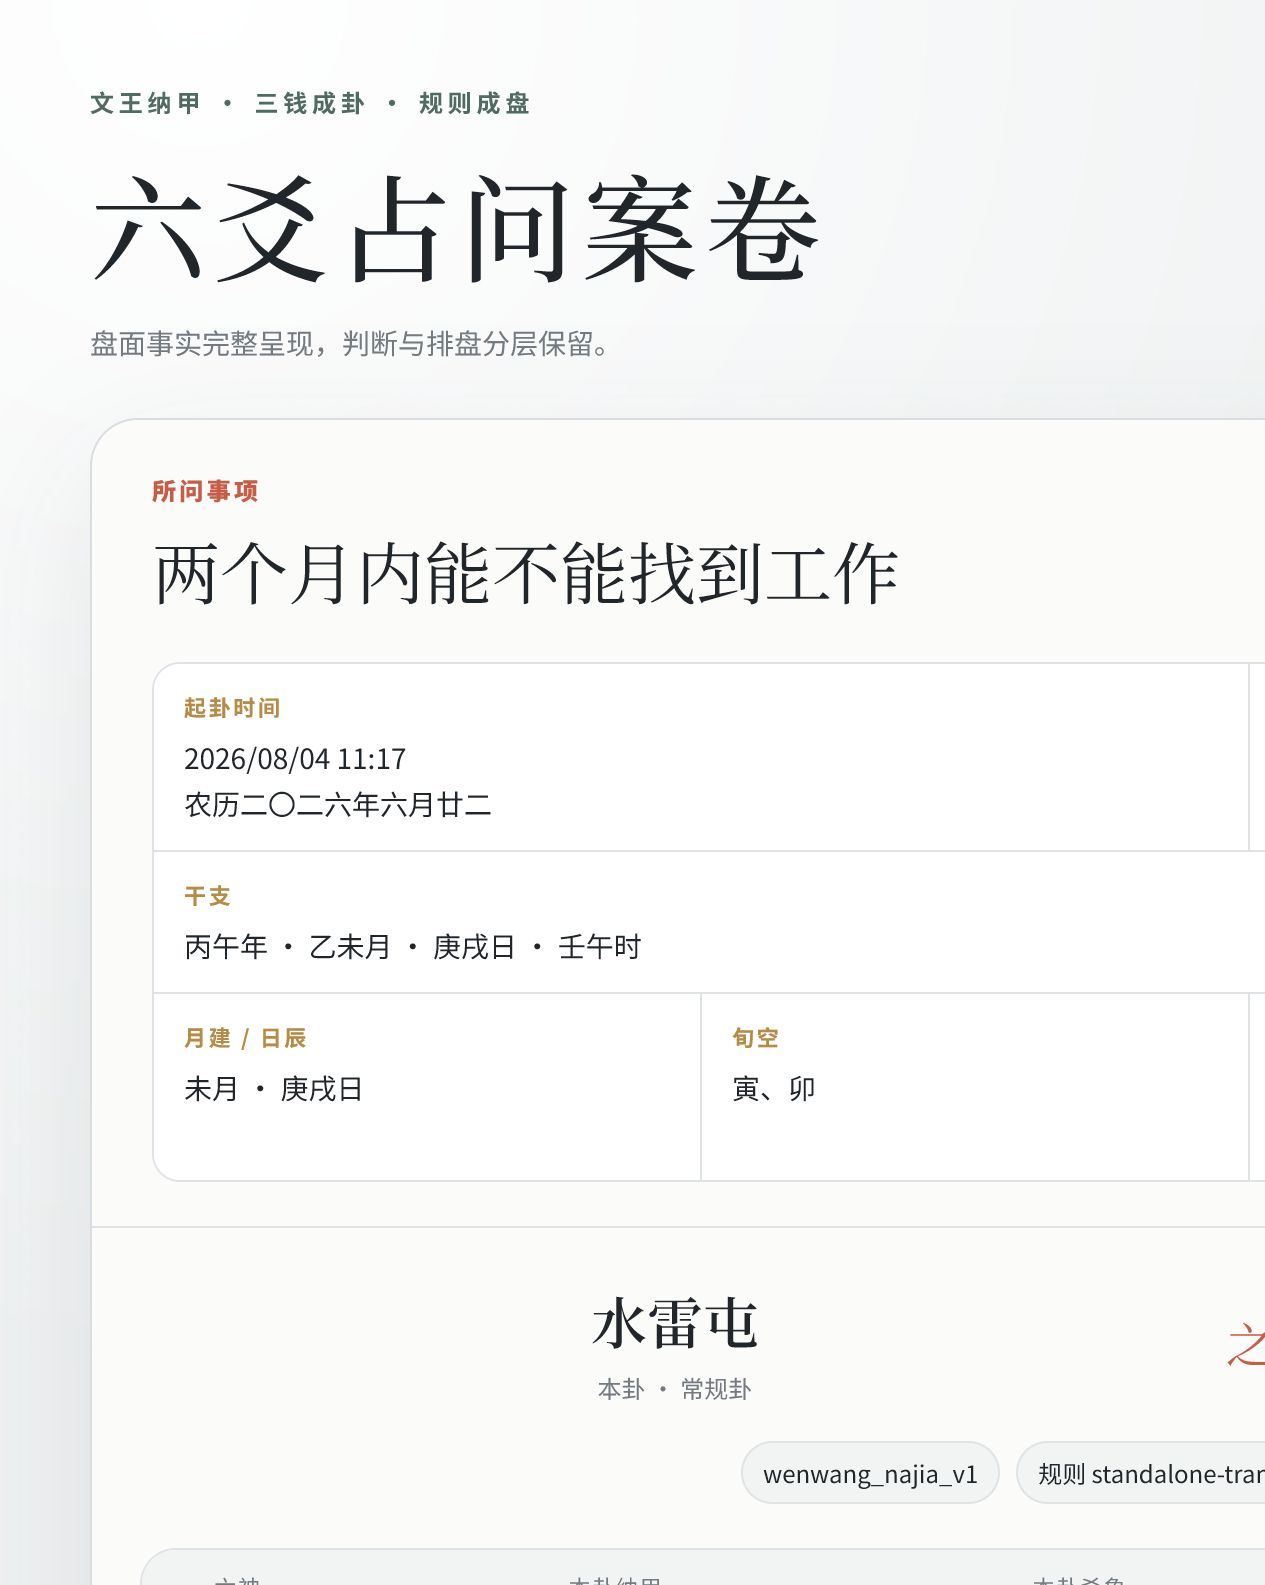
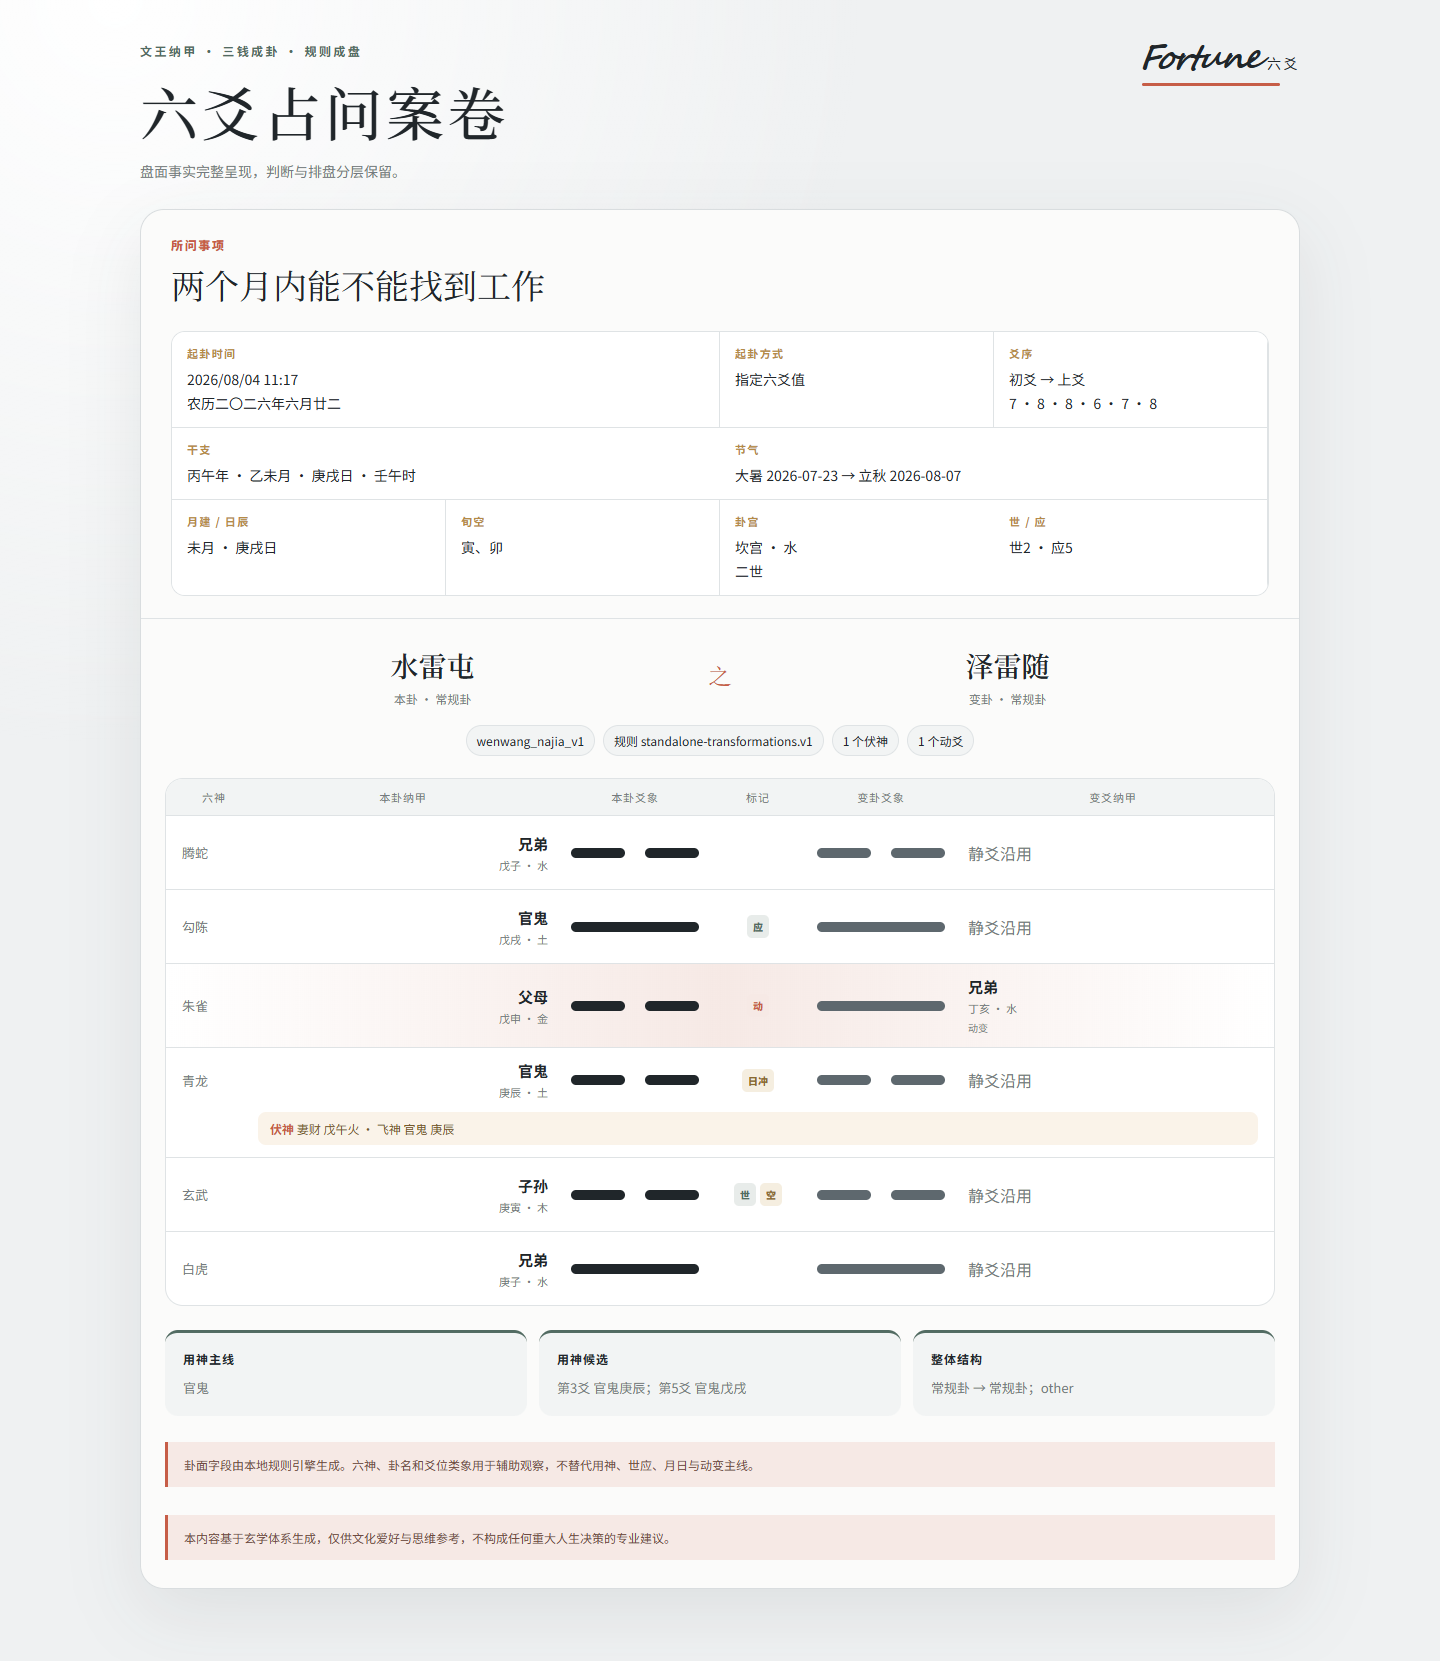
fix: publish complete chart preview and align format claims

diff --git a/assets/liuyao-viewer.html b/assets/liuyao-viewer.html
@@ -25,7 +25,7 @@
   <script>
     const EMBEDDED_JSON="__LIUYAO_DATA__";
     const esc=v=>String(v??"").replace(/[&<>"']/g,c=>({"&":"&amp;","<":"&lt;",">":"&gt;",'"':"&quot;","'":"&#39;"}[c]));
-    const relationName=v=>({same_element:"比和",generates_original:"回头生",controls_original:"回头克",other:"动变",advance:"化进",retreat:"化退",none:""}[v]||v||"");
+    const relationName=v=>{const names={same_element:"比和",generates_original:"回头生",controls_original:"回头克",other:"动变",advance:"化进",retreat:"化退",none:""};return Object.prototype.hasOwnProperty.call(names,v)?names[v]:(v||"")};
     const methodName=v=>({auto:"自动起卦",manual_coins:"三枚硬币手动起卦",agent_recorded:"Agent 逐次记录",specified_lines:"指定六爻值"}[v]||v||"指定六爻值");
     const patternName=v=>({ordinary:"常规卦",six_clash:"六冲卦",six_harmony:"六合卦"}[v]||v||"常规卦");
     function glyph(yinYang){return yinYang==="阳"?'<span class="yang"></span>':'<span class="yin"><i></i><i></i></span>'}

diff --git a/scripts/render_chart_text.py b/scripts/render_chart_text.py
@@ -11,6 +11,17 @@ def _line_glyph(line: dict[str, object]) -> str:
     return "━━━━━━" if line.get("yinYang") == "阳" else "━━　━━"
 
 
+def _relation_name(value: object) -> str:
+    return {
+        "generates_original": "回头生",
+        "controls_original": "回头克",
+        "advance": "化进",
+        "retreat": "化退",
+        "other": "动变",
+        "none": "",
+    }.get(str(value), str(value or ""))
+
+
 def _hexagram_pair(chart: dict[str, object]) -> list[str]:
     original = chart["originalHexagram"]["name"]
     changed = chart["changedHexagram"]["name"]
@@ -43,8 +54,18 @@ def render(data: dict[str, object]) -> str:
     for line in reversed(chart.get("lines", [])):
         marks = " ".join(filter(None, ["世" if line.get("isShi") else "", "应" if line.get("isYing") else "", "动" if line.get("moving") else "", "空" if line.get("isVoid") else "", "月破" if line.get("isMonthBreak") else ""])) or "—"
         changed = line.get("changedLine")
-        changed_text = "—" if not changed else f"{changed['sixRelative']}{changed['najiaStem']}{changed['najiaBranch']} · {changed['returnRelation']}"
+        changed_text = "—" if not changed else f"{changed['sixRelative']}{changed['najiaStem']}{changed['najiaBranch']} · {_relation_name(changed['returnRelation'])}"
         rows.append(f"| {line['position']} | {line['sixSpirit']} | {line['sixRelative']}{line['najiaStem']}{line['najiaBranch']} | {_line_glyph(line)} | {marks} | {changed_text} |")
+    hidden_lines = chart.get("hiddenLines") or []
+    if hidden_lines:
+        rows.extend(["", "**伏神：**"])
+        for hidden in hidden_lines:
+            states = " ".join(filter(None, ["空" if hidden.get("isVoid") else "", "月破" if hidden.get("isMonthBreak") else "", "日冲" if hidden.get("isDayClash") else ""]))
+            rows.append(
+                f"- 第{hidden['position']}爻伏神：{hidden['sixRelative']}{hidden['najiaStem']}{hidden['najiaBranch']} · "
+                f"飞神{hidden['flyingSixRelative']}{hidden['flyingStem']}{hidden['flyingBranch']}"
+                f"{' · '+states if states else ''}"
+            )
     candidates = analysis.get("candidates") or []
     candidate_text = "；".join(f"{'伏神' if row.get('hidden') else '第'+str(row.get('position'))+'爻'} {row.get('sixRelative')}{row.get('najiaBranch')}" for row in candidates) or "待结合问题确认"
     rows.extend(["", f"**用神主线：** {analysis.get('yongshenRelative') or '待确认'}", f"**用神候选：** {candidate_text}", "", "> 本内容基于玄学体系生成，仅供文化爱好与思维参考，不构成任何重大人生决策的专业建议。"])

diff --git a/scripts/test_standalone.py b/scripts/test_standalone.py
@@ -54,7 +54,7 @@ def main() -> None:
     check(len(automatic) == 6 and all(row["value"] in (6, 7, 8, 9) for row in automatic), "automatic casting mismatch")
 
     markdown = render(tun)
-    check("水雷屯" in markdown and "泽雷随" in markdown and "| 爻位 |" in markdown, "Markdown chart mismatch")
+    check("水雷屯" in markdown and "泽雷随" in markdown and "| 爻位 |" in markdown and "伏神" in markdown, "Markdown chart mismatch")
     check("本内容基于玄学体系生成" in markdown, "Markdown safety disclaimer mismatch")
     check(_load_method("career")["methodId"] == "liuyao-career-v4", "career method version mismatch")
     check("先审题取用并处理用神多现" in SYSTEM_PROMPT, "interpretation order prompt mismatch")
